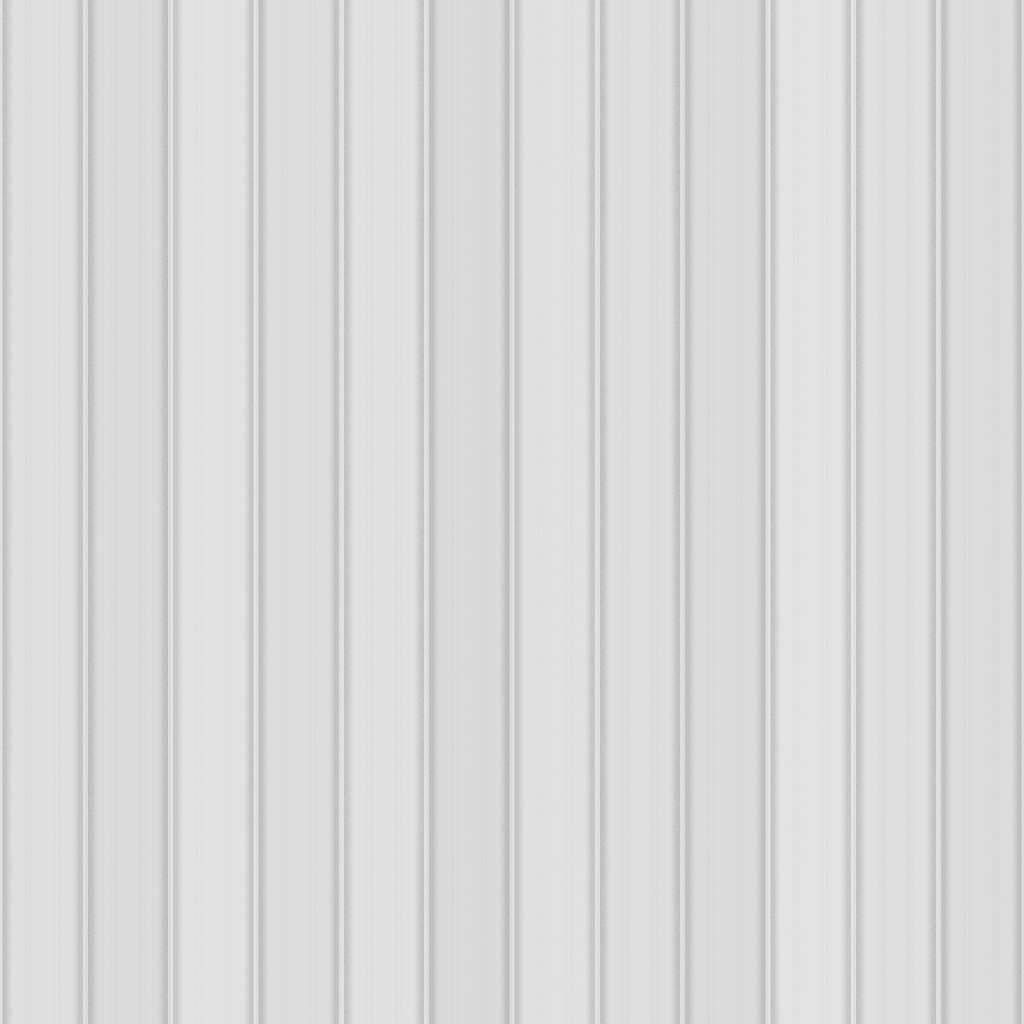
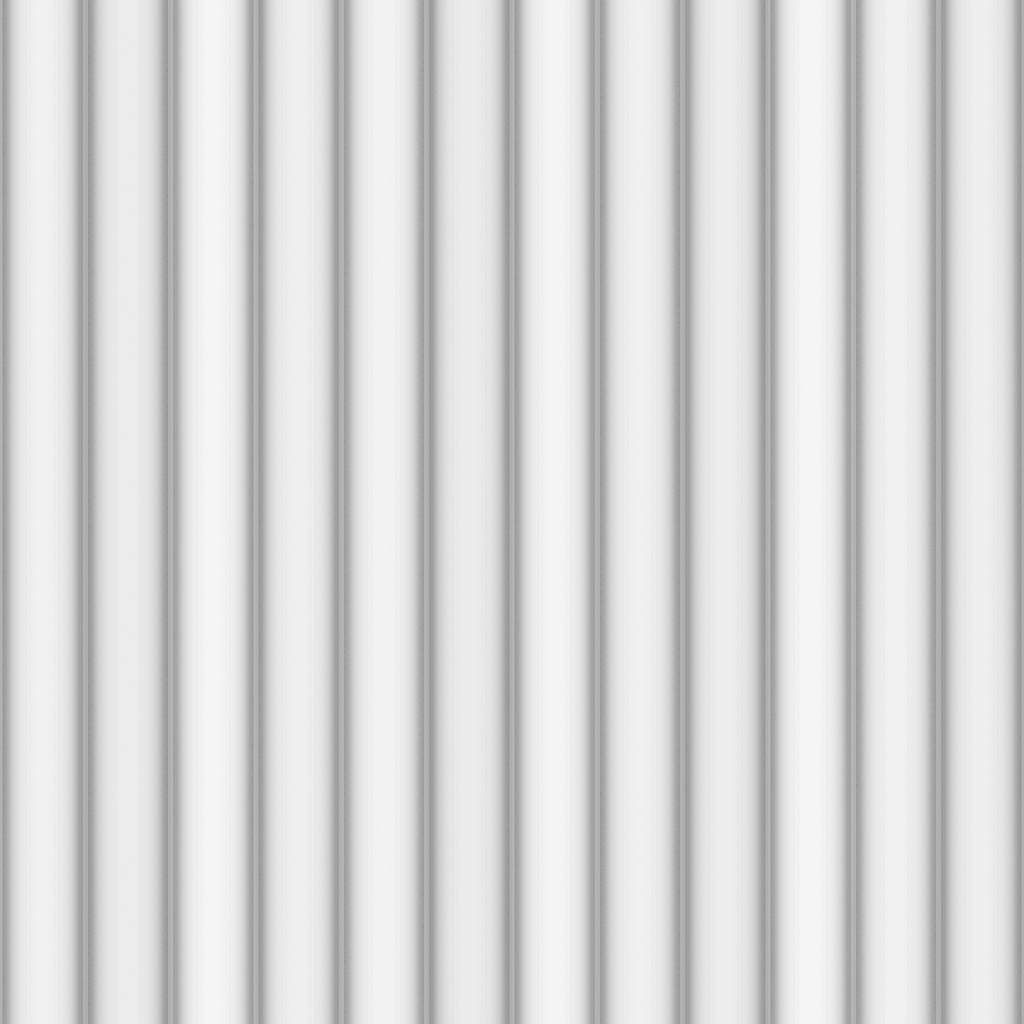
Darken standing seams so they read at 45 m
The seam bake adds a soft shadow, 50% deep and 8 cm wide, centered on
each seam. Ambient occlusion alone left seams 6% darker than the pan at
the mipmap level the game samples at 45 m. They are now 25% darker.

diff --git a/scripts/art/standing-seam.py b/scripts/art/standing-seam.py
@@ -8,6 +8,9 @@ The tile is 4.8768 m (192 in) square and holds twelve 16 in (406.4 mm) pans. Eac
 and each pan bows up to 3.5 mm between its seams. Seams run along Blender Y, which is up-slope and the
 image's vertical. Each pan takes its own tone and gloss, as sheets from different coils do.
 
+A soft shadow SHADOW_WIDTH meters wide darkens each seam by up to SHADOW_DEPTH. Ambient occlusion
+alone leaves a band a few centimeters wide, and the game's distant mipmaps average that away.
+
 The maps go to art/materials/, and scripts/art/materials.py adds them to the texture library.
 """
 import math
@@ -32,6 +35,8 @@ PAINT_MEAN = .7
 PAN_TONE = (1.0, .96, 1.04, .985, 1.02, .955, 1.03, .99, .965, 1.045, 1.0, .975)
 PAN_GLOSS = (.36, .44, .32, .40, .47, .34, .42, .38, .45, .33, .41, .37)
 CAN = .0035
+SHADOW_DEPTH = .50
+SHADOW_WIDTH = .08
 STEP = .04
 
 
@@ -165,7 +170,9 @@ def main():
     x = (np.arange(PIXELS) + .5) / PIXELS * TILE
     pan = np.clip((x / PAN).astype(int), 0, PANS - 1)
     tone = np.array(PAN_TONE)[pan][None, :]
-    albedo = (.30 + .70 * ao ** 1.5) * tone
+    off = np.abs((x + PAN / 2) % PAN - PAN / 2)[None, :]
+    shadow = 1 - SHADOW_DEPTH * np.exp(-(off / SHADOW_WIDTH) ** 2)
+    albedo = (.30 + .70 * ao ** 1.5) * tone * shadow
     albedo = albedo * PAINT_MEAN / albedo.mean()
     OUT.mkdir(parents=True, exist_ok=True)
     write(OUT / 'standing-seam-albedo.png', srgb(np.repeat(albedo[..., None], 3, axis=2)))

diff --git a/plans/appearance-families.md b/plans/appearance-families.md
@@ -260,7 +260,8 @@ staggered gables, flat setback, pavilions and span rows at Tile row 284, and `wi
 shows deep flat, deep sawtooth and deep span rows at Tile row 389, from `wide-houses.drive`. Every
 roof seen from above shows its face; `WideHouseBodyTests` asserts the same from vertical rays.
 Both frames show standing-seam roofs and seam or concrete-tile panels on contemporary rows. Close
-shots at 45 m show ridge caps and verges clearly, and the seams only faintly.
+shots at 45 m show ridge caps, verges and seams clearly. At 110 m the seams are one or two pixels
+apart and do not resolve.
 Wide houses stand detached by design, so #243 does not apply to them.
 
 ## What the demonstration showed
